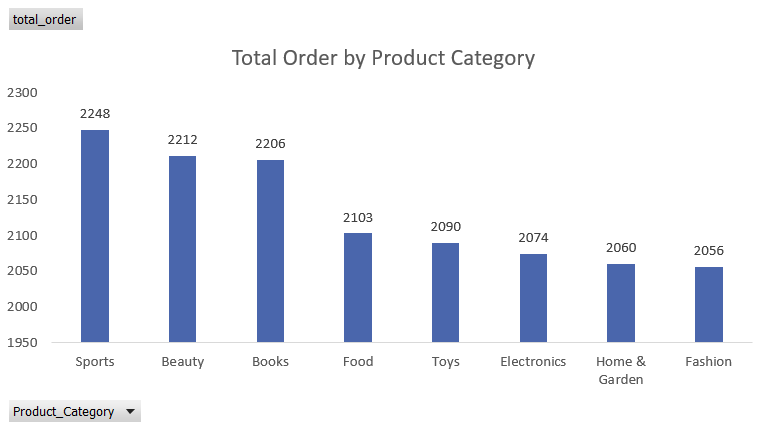
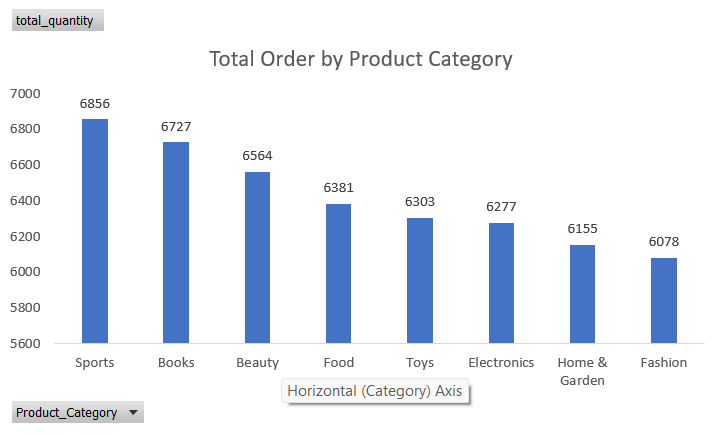
add explanation of the charts and replace existing chart

diff --git a/turkish-e-commerce/README.md b/turkish-e-commerce/README.md
@@ -162,15 +162,17 @@ Mobile devices are the most commonly used for purchases, followed by desktops an
 ### 💸 Discount Analysis
 **Discounts by Product Category**
 
-<img src="chart-screenshots/total-discount-given.png" width="500" alt="Dashboard">
+<img src="chart-screenshots/discount-spent-by-customers.png" width="500" alt="Dashboard">
 
-Discounts are most frequently applied to Electronics, followed by Fashion and Home & Garden.
+Customers spent the most on discounts in the Electronics category, followed by Fashion and Home & Garden.
 Electronics also contributed in the highest sales amount after discounts. That indicates discount strategy is effective in boosting sales for this category.
 
 **Discounts by Age Group**
 
-<img src="chart-screenshots/discount-percentage-by-age.png" width="500" alt="Dashboard">
+<img src="chart-screenshots/discount-spent-by-agee.png" width="500" alt="Dashboard">
 
-Electronics is the 
+Age group 30-44 spent the most discount on every category, followed by age group 18-29.
+
+
 
 
